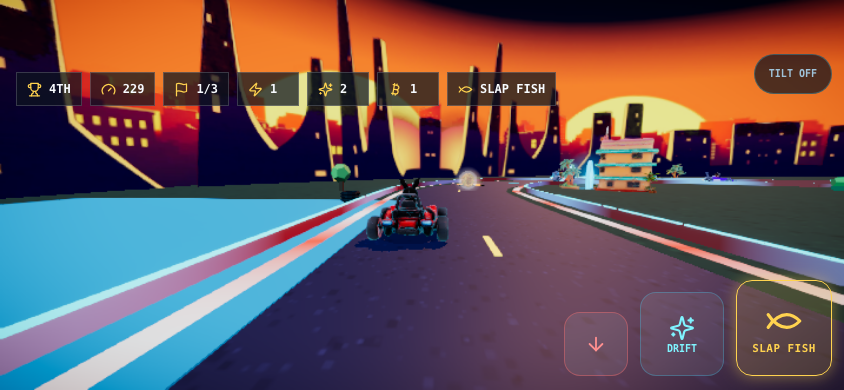
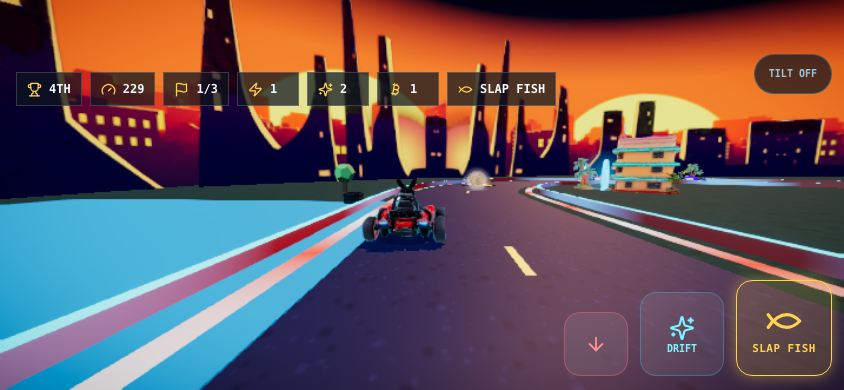
K3 polish: touch controls hide when the race finishes (results panel owns the screen)
Found by the phone-size UI sweep (race + results at both orientations,
evidence in tmp/k3-mobile-controls-smoke/sweep-*.png). Smokes 25/25 +
shell 26/26; kart-playable + bundle green.

diff --git a/src/game/ComebackCityThreeKartRace.jsx b/src/game/ComebackCityThreeKartRace.jsx
@@ -5846,13 +5846,14 @@ export const ComebackCityThreeKartRace = ({
           </button>
         </div>
       ) : null}
-      {touchControls ? (
+      {touchControls && !snapshot.finished ? (
         <>
           {/* K3 mobile controls V2 (owner: "maybe a joystick to drive with" +
               "something made to smash on the screen"). Coarse pointers only —
               desktop plays keyboard with zero phantom buttons. Auto-accel is
               on (autoThrottle), so the layout is: analog steer left thumb,
-              brake/drift/item right thumb. */}
+              brake/drift/item right thumb. Hidden once the race finishes —
+              the results panel owns the screen (UI sweep 2026-07-12). */}
           <div
             aria-label="Drag anywhere to steer"
             className="three-kart-race__steer-zone"
